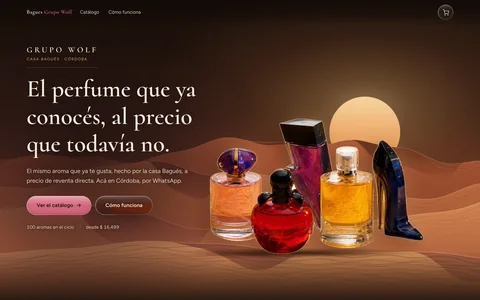
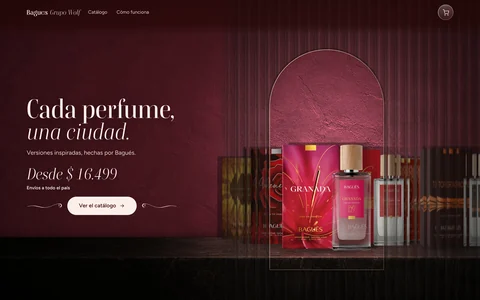
Bagués 3.0: problema, solución y resultado con capturas nuevas
- Texto nuevo: de CRM a tienda y panel, el catálogo mensual que llevaba 1–2 semanas y hoy se carga en menos de media hora desde los PDF
- Cinco puntos de solución, resultado destacado, stack al día y link al código (repo público)
- Capturas nuevas de la tienda renovada (desktop 2880×1800 y mobile 1170×2532) en todas sus variantes

Claude-Session: https://claude.ai/code/session_01BHvj3cjTpzQNewfVGVkyQp

diff --git a/index.html b/index.html
@@ -247,7 +247,7 @@
 
       <article class="case" id="p-bagues" style="--accent: var(--coral)" aria-labelledby="t-bagues">
         <div class="case__media">
-          <figure class="shot-d" style="--ph: #613928">
+          <figure class="shot-d" style="--ph: #431f23">
             <button class="shot-btn" type="button" data-open="bagues" data-shot-pref="d">
               <span class="sr-only" data-i18n="btn.zoom">Ampliar</span>
               <img src="img/p/bagues-d-1440.webp" srcset="img/p/bagues-d-960.webp 960w, img/p/bagues-d-1440.webp 1440w, img/p/bagues-d-2160.webp 2160w, img/p/bagues-d-2880.webp 2880w"
@@ -258,7 +258,7 @@
           </figure>
           <figure class="shot-m">
             <figcaption class="tag tag--coral shot-label" data-i18n="label.mobile">Mobile</figcaption>
-            <button class="phone shot-btn" type="button" data-open="bagues" data-shot-pref="m" style="--ph: #613928">
+            <button class="phone shot-btn" type="button" data-open="bagues" data-shot-pref="m" style="--ph: #431f23">
               <span class="sr-only" data-i18n="btn.zoom">Ampliar</span>
               <img src="img/p/bagues-m-780.webp" srcset="img/p/bagues-m-390.webp 390w, img/p/bagues-m-780.webp 780w, img/p/bagues-m-1170.webp 1170w"
                    sizes="(max-width: 700px) 92vw, (min-width: 1024px) 210px, 220px" width="1170" height="2532"
@@ -269,27 +269,30 @@
         <div class="case__info">
           <div class="case__head">
             <span class="case__num" aria-hidden="true">02</span>
-            <span class="tag tag--coral tag--lg"><span data-pf="bagues:badge">Tienda + panel propio</span> ✦</span>
+            <span class="tag tag--coral tag--lg"><span data-pf="bagues:badge">Versión 3.0</span> ✦</span>
           </div>
-          <ul class="tags" aria-label="Etiquetas" data-i18n-aria="aria.tags"><li class="tag tag--ink" data-pt="origin:familia">Negocio familiar</li><li class="tag tag--coral"><span class="dot" aria-hidden="true"></span>Live</li><li class="tag tag--peach" data-pt="type:tienda">Tienda</li><li class="tag tag--sage" data-pt="focus:conversion">Conversión</li><li class="tag tag--sage" data-pt="focus:db">Base de datos</li><li class="tag tag--sage" data-pt="focus:perf">Performance</li></ul>
-          <p class="label case__kicker" data-pf="bagues:kicker">Tienda por pedido · En producción</p>
+          <ul class="tags" aria-label="Etiquetas" data-i18n-aria="aria.tags"><li class="tag tag--ink" data-pt="origin:familia">Negocio familiar</li><li class="tag tag--coral"><span class="dot" aria-hidden="true"></span>Live</li><li class="tag tag--peach" data-pt="type:tienda">Tienda</li><li class="tag tag--sage" data-pt="focus:conversion">Conversión</li><li class="tag tag--sage" data-pt="focus:db">Base de datos</li><li class="tag tag--sage" data-pt="focus:perf">Performance</li><li class="tag tag--sage" data-pt="focus:diseno">Diseño visual</li></ul>
+          <p class="label case__kicker" data-pf="bagues:kicker">Nació como un CRM · Hoy tienda y panel en producción</p>
           <h3 class="case__title" id="t-bagues" data-pf="bagues:name">Bagués Grupo Wolf</h3>
-          <p class="case__context" data-pf="bagues:context">Grupo Wolf, el emprendimiento familiar, revende perfumes de la casa Bagués de persona a persona en Córdoba. Construí una tienda por pedido donde cada cliente explora el catálogo del ciclo, arma su pedido y lo confirma por WhatsApp.</p>
+          <p class="case__context" data-pf="bagues:context">Grupo Wolf, el emprendimiento familiar, vende perfumes Bagués por catálogo, y el catálogo cambia cada mes: más de cien aromas, precios que se mueven, perfumes que entran y salen. Actualizar todo a mano llevaba una o dos semanas. Lo resolví con una tienda y un panel propios: el ciclo nuevo se carga desde los PDF del proveedor y cada pedido llega listo por WhatsApp.</p>
           <div class="case__solved">
-            <p class="tag tag--ink"><span data-i18n="label.solved">Qué resolví</span>&nbsp;· 4</p>
+            <p class="tag tag--ink"><span data-i18n="label.solved">Qué resolví</span>&nbsp;· 5</p>
             <ol>
-              <li><span class="case__n" aria-hidden="true">01</span><span data-pf="bagues:solved:0">Catálogo de 100 aromas por ciclo, con familia olfativa y precio en cada ficha</span></li>
-              <li><span class="case__n" aria-hidden="true">02</span><span data-pf="bagues:solved:1">Carrito que arma el pedido y lo envía listo por WhatsApp</span></li>
-              <li><span class="case__n" aria-hidden="true">03</span><span data-pf="bagues:solved:2">Datos en Supabase y un panel propio para gestionar el catálogo</span></li>
-              <li><span class="case__n" aria-hidden="true">04</span><span data-pf="bagues:solved:3">Carga rápida: conexión anticipada a la base, imágenes responsive y fuentes diferidas</span></li>
+              <li><span class="case__n" aria-hidden="true">01</span><span data-pf="bagues:solved:0">El panel lee los PDF del ciclo nuevo, muestra qué cambia y lo aplica solo cuando confirmo, con respaldo</span></li>
+              <li><span class="case__n" aria-hidden="true">02</span><span data-pf="bagues:solved:1">Cada perfume con el nombre que la gente ya conoce, buscador que tolera errores y filtros por familia</span></li>
+              <li><span class="case__n" aria-hidden="true">03</span><span data-pf="bagues:solved:2">Ficha por perfume con notas, tamaños, precio y un link propio para compartir</span></li>
+              <li><span class="case__n" aria-hidden="true">04</span><span data-pf="bagues:solved:3">Pedido por WhatsApp sin pasarela de pago, a propósito: la venta se cierra hablando y los precios se verifican en la base</span></li>
+              <li><span class="case__n" aria-hidden="true">05</span><span data-pf="bagues:solved:4">Rediseño completo, “Cada perfume, una ciudad”, con las fotos de todo el catálogo en un mismo estudio</span></li>
             </ol>
           </div>
+          <p class="case__note" data-pf="bagues:note">Resultado: el ciclo nuevo se carga en menos de media hora (antes, una o dos semanas). Más de 90 de velocidad en el celular y pruebas en Safari, Chrome y Firefox antes de cada publicación.</p>
           <div class="case__stack">
             <span class="label" aria-hidden="true">Stack</span>
-            <ul class="stack" aria-label="Tecnologías" data-i18n-aria="aria.stack"><li>React</li><li>Vite</li><li>Supabase</li><li>WhatsApp</li><li>Vercel</li></ul>
+            <ul class="stack" aria-label="Tecnologías" data-i18n-aria="aria.stack"><li>React</li><li>Vite</li><li>React Router</li><li>Supabase</li><li>PDF.js</li><li>Vercel</li></ul>
           </div>
           <div class="case__actions">
             <a class="btn" href="https://baguesfraganciaswolf.vercel.app/" target="_blank" rel="noopener" data-i18n="btn.live">Ver en vivo ↗</a>
+            <a class="btn btn--ghost" href="https://github.com/Seba-fernandez/baguesfraganciaswolf" target="_blank" rel="noopener" data-i18n="btn.code">Código</a>
             <button class="btn btn--ghost" type="button" data-open="bagues" data-i18n="btn.shots">Ver capturas</button>
           </div>
         </div>
@@ -575,7 +578,7 @@
   </dialog>
 
   <!-- build:data:start -->
-  <script type="application/json" id="projectsData">{"types":{"tienda":{"es":"Tienda","en":"Store"},"sitio":{"es":"Sitio","en":"Website"},"landing":{"es":"Landing","en":"Landing"},"app":{"es":"App","en":"App"},"sistema":{"es":"Sistema","en":"System"}},"origins":{"familia":{"es":"Negocio familiar","en":"Family business"},"cliente":{"es":"Cliente real","en":"Real client"},"propio":{"es":"Producto propio","en":"Own product"},"estudio":{"es":"Estudio","en":"Study project"}},"focus":{"conversion":{"es":"Conversión","en":"Conversion"},"seo":{"es":"SEO","en":"SEO"},"perf":{"es":"Performance","en":"Performance"},"db":{"es":"Base de datos","en":"Database"},"ia":{"es":"IA aplicada","en":"Applied AI"},"js":{"es":"JS puro","en":"Vanilla JS"},"diseno":{"es":"Diseño visual","en":"Visual design"}},"projects":[{"id":"cespad","featured":true,"accent":"sage","placeholder":"#303530","name":{"es":"Grupo CESPAD","en":"Grupo CESPAD"},"type":"sitio","origin":"cliente","focus":["conversion","seo","js"],"badge":{"es":"Rediseño 2.0","en":"Redesign 2.0"},"kicker":{"es":"Cliente recurrente · Evolución de producto","en":"Returning client · Product evolution"},"context":{"es":"Grupo CESPAD no tenía presencia online propia y su oferta ya excedía el pádel. Convertí la primera landing en una experiencia orientada a descubrir sus deportes, entender cada servicio y llegar al canal de contacto adecuado.","en":"Grupo CESPAD had no online presence of its own and its offer had outgrown padel. I turned the first landing into an experience built to discover its sports, understand each service and reach the right contact channel."},"solved":{"es":["Arquitectura de contenido por deporte","CTAs directos a WhatsApp para contactos con intención alta","Formulario con validación de los datos esenciales","HTML semántico y datos estructurados para la búsqueda local"],"en":["Sport-based content architecture","Direct WhatsApp CTAs for high-intent contacts","A form that validates the essential data","Semantic HTML and structured data for local search"]},"stack":["HTML5","CSS3","JS ES6+","Schema.org","WhatsApp API","Vercel"],"live":"https://grupo-cespad-actualizacion.vercel.app/","code":"https://github.com/Seba-fernandez/Grupo-Cespad-actualizacion","alt":{"es":"el sitio Grupo CESPAD","en":"the Grupo CESPAD website"}},{"id":"bagues","featured":true,"accent":"coral","placeholder":"#613928","name":{"es":"Bagués Grupo Wolf","en":"Bagués Grupo Wolf"},"type":"tienda","origin":"familia","focus":["conversion","db","perf"],"badge":{"es":"Tienda + panel propio","en":"Store + own admin panel"},"kicker":{"es":"Tienda por pedido · En producción","en":"Order-based store · In production"},"context":{"es":"Grupo Wolf, el emprendimiento familiar, revende perfumes de la casa Bagués de persona a persona en Córdoba. Construí una tienda por pedido donde cada cliente explora el catálogo del ciclo, arma su pedido y lo confirma por WhatsApp.","en":"Grupo Wolf, our family business, resells Bagués perfumes person to person in Córdoba. I built an order-based store where each customer browses the current cycle's catalog, builds an order and confirms it over WhatsApp."},"solved":{"es":["Catálogo de 100 aromas por ciclo, con familia olfativa y precio en cada ficha","Carrito que arma el pedido y lo envía listo por WhatsApp","Datos en Supabase y un panel propio para gestionar el catálogo","Carga rápida: conexión anticipada a la base, imágenes responsive y fuentes diferidas"],"en":["A 100-scent catalog per cycle, with scent family and price on every card","A cart that builds the order and sends it ready over WhatsApp","Data in Supabase and a custom panel to manage the catalog","Fast loading: early database connection, responsive images and deferred fonts"]},"stack":["React","Vite","Supabase","WhatsApp","Vercel"],"live":"https://baguesfraganciaswolf.vercel.app/","code":"","alt":{"es":"la tienda Bagués Grupo Wolf","en":"the Bagués Grupo Wolf store"}},{"id":"oratoria","featured":true,"accent":"peach","placeholder":"#151515","name":{"es":"Checklist de Oratoria","en":"Speaking Checklist"},"type":"app","origin":"propio","focus":["ia"],"badge":{"es":"App propia","en":"Own app"},"kicker":{"es":"Producto personal · React + IA","en":"Personal product · React + AI"},"context":{"es":"Nació para resolver un problema propio: registrar práctica y obtener devoluciones sin repetir diagnósticos manuales.","en":"Built to solve a problem of my own: tracking practice and getting feedback without repeating manual diagnostics."},"solved":{"es":["Interfaz de checklist para registrar cada práctica","Persistencia local entre sesiones","Asistencia de IA para acelerar el feedback"],"en":["A checklist interface to log every practice","Local persistence between sessions","AI assistance to speed up feedback"]},"stack":["React","Vite","LocalStorage","Claude API","Vercel"],"live":"https://checklist-para-oratoria.vercel.app/","code":"https://github.com/Seba-fernandez/ChecklistOratoria","alt":{"es":"la app Checklist de Oratoria","en":"the Speaking Checklist app"}},{"id":"greenset","featured":false,"accent":"peach","placeholder":"#45554c","name":{"es":"Greenset Court","en":"Greenset Court"},"type":"landing","origin":"cliente","focus":["conversion","js"],"badge":{"es":"Versión 1.0","en":"Version 1.0"},"kicker":{"es":"Primera entrega · Punto de partida","en":"First delivery · Starting point"},"context":{"es":"Primera presencia digital para una propuesta de pádel. El objetivo era simple y concreto, sin sumar complejidad técnica innecesaria.","en":"The first digital presence for a padel offering. The goal was simple and concrete, without adding unnecessary technical complexity."},"solved":{"es":["Explicar el servicio de un vistazo","Verse confiable en el celular","Abrir un camino de contacto claro por WhatsApp"],"en":["Explain the service at a glance","Look trustworthy on a phone","Open a clear contact path over WhatsApp"]},"note":{"es":"La expansión del negocio dejó chica esta primera versión. Ese aprendizaje derivó en Grupo CESPAD.","en":"The business expansion outgrew this first version. That learning led to Grupo CESPAD."},"stack":["HTML5","CSS3","JS ES6+","WhatsApp API","Vercel"],"live":"https://greenset-landing.vercel.app/","code":"https://github.com/Seba-fernandez/Greenset-Landing","alt":{"es":"el sitio Greenset Court","en":"the Greenset Court website"}},{"id":"cafe","featured":false,"accent":"peach","placeholder":"#5e5b5a","name":{"es":"Blog de Café","en":"Coffee Blog"},"type":"sitio","origin":"estudio","focus":["js"],"kicker":{"es":"Proyecto de estudio · Multipágina","en":"Study project · Multi-page"},"context":{"es":"Proyecto de estudio para practicar la estructura de un sitio multipágina en HTML: blog, listado de cursos y contacto con validación de formulario.","en":"A study project to practice the structure of a multi-page HTML site: blog, course listing and a contact form with validation."},"solved":{"es":["Navegación entre 5 páginas con una estructura compartida","Listado de cursos y entradas del blog","Validación de formulario en JS puro"],"en":["Navigation across 5 pages with a shared structure","Course listing and blog posts","Form validation in vanilla JS"]},"stack":["HTML5","CSS3","JS ES6+","DOM API","Vercel"],"live":"https://blog-cafe-beige.vercel.app/","code":"https://github.com/Seba-fernandez/BlogCafe","alt":{"es":"el Blog de Café","en":"the Coffee Blog"}},{"id":"festival","featured":false,"accent":"coral","placeholder":"#755f90","name":{"es":"Festival de Música","en":"Music Festival"},"type":"landing","origin":"estudio","focus":["perf","diseno"],"kicker":{"es":"Proyecto de estudio · Imágenes y diseño","en":"Study project · Images and design"},"context":{"es":"Proyecto de estudio enfocado en compresión de imágenes y diseño: una landing de alto impacto para un festival EDM, con video de fondo, lineup y tickets.","en":"A study project focused on image compression and design: a high-impact landing for an EDM festival, with a background video, lineup and tickets."},"solved":{"es":["Imágenes en WebP con carga diferida","Video de fondo sin bloquear la carga","Lineup de 2 días y 2 escenarios en grilla","SASS organizado en partials"],"en":["WebP images with lazy loading","A background video that doesn't block loading","A 2-day, 2-stage lineup grid","SASS organized in partials"]},"stack":["HTML5","SASS/SCSS","WebP","Lazy loading","Vercel"],"live":"https://festivalde-musica.vercel.app/","code":"https://github.com/Seba-fernandez/FestivaldeMusica","alt":{"es":"el sitio Festival de Música","en":"the Music Festival website"}}]}</script>
+  <script type="application/json" id="projectsData">{"types":{"tienda":{"es":"Tienda","en":"Store"},"sitio":{"es":"Sitio","en":"Website"},"landing":{"es":"Landing","en":"Landing"},"app":{"es":"App","en":"App"},"sistema":{"es":"Sistema","en":"System"}},"origins":{"familia":{"es":"Negocio familiar","en":"Family business"},"cliente":{"es":"Cliente real","en":"Real client"},"propio":{"es":"Producto propio","en":"Own product"},"estudio":{"es":"Estudio","en":"Study project"}},"focus":{"conversion":{"es":"Conversión","en":"Conversion"},"seo":{"es":"SEO","en":"SEO"},"perf":{"es":"Performance","en":"Performance"},"db":{"es":"Base de datos","en":"Database"},"ia":{"es":"IA aplicada","en":"Applied AI"},"js":{"es":"JS puro","en":"Vanilla JS"},"diseno":{"es":"Diseño visual","en":"Visual design"}},"projects":[{"id":"cespad","featured":true,"accent":"sage","placeholder":"#303530","name":{"es":"Grupo CESPAD","en":"Grupo CESPAD"},"type":"sitio","origin":"cliente","focus":["conversion","seo","js"],"badge":{"es":"Rediseño 2.0","en":"Redesign 2.0"},"kicker":{"es":"Cliente recurrente · Evolución de producto","en":"Returning client · Product evolution"},"context":{"es":"Grupo CESPAD no tenía presencia online propia y su oferta ya excedía el pádel. Convertí la primera landing en una experiencia orientada a descubrir sus deportes, entender cada servicio y llegar al canal de contacto adecuado.","en":"Grupo CESPAD had no online presence of its own and its offer had outgrown padel. I turned the first landing into an experience built to discover its sports, understand each service and reach the right contact channel."},"solved":{"es":["Arquitectura de contenido por deporte","CTAs directos a WhatsApp para contactos con intención alta","Formulario con validación de los datos esenciales","HTML semántico y datos estructurados para la búsqueda local"],"en":["Sport-based content architecture","Direct WhatsApp CTAs for high-intent contacts","A form that validates the essential data","Semantic HTML and structured data for local search"]},"stack":["HTML5","CSS3","JS ES6+","Schema.org","WhatsApp API","Vercel"],"live":"https://grupo-cespad-actualizacion.vercel.app/","code":"https://github.com/Seba-fernandez/Grupo-Cespad-actualizacion","alt":{"es":"el sitio Grupo CESPAD","en":"the Grupo CESPAD website"}},{"id":"bagues","featured":true,"accent":"coral","placeholder":"#431f23","name":{"es":"Bagués Grupo Wolf","en":"Bagués Grupo Wolf"},"type":"tienda","origin":"familia","focus":["conversion","db","perf","diseno"],"badge":{"es":"Versión 3.0","en":"Version 3.0"},"kicker":{"es":"Nació como un CRM · Hoy tienda y panel en producción","en":"Started as a CRM · Now a store and admin panel in production"},"context":{"es":"Grupo Wolf, el emprendimiento familiar, vende perfumes Bagués por catálogo, y el catálogo cambia cada mes: más de cien aromas, precios que se mueven, perfumes que entran y salen. Actualizar todo a mano llevaba una o dos semanas. Lo resolví con una tienda y un panel propios: el ciclo nuevo se carga desde los PDF del proveedor y cada pedido llega listo por WhatsApp.","en":"Grupo Wolf, our family business, sells Bagués perfumes from a catalog that changes every month: over a hundred scents, shifting prices, perfumes coming and going. Updating everything by hand took one or two weeks. I solved it with a custom store and admin panel: the new cycle loads from the supplier's PDFs and every order arrives ready over WhatsApp."},"solved":{"es":["El panel lee los PDF del ciclo nuevo, muestra qué cambia y lo aplica solo cuando confirmo, con respaldo","Cada perfume con el nombre que la gente ya conoce, buscador que tolera errores y filtros por familia","Ficha por perfume con notas, tamaños, precio y un link propio para compartir","Pedido por WhatsApp sin pasarela de pago, a propósito: la venta se cierra hablando y los precios se verifican en la base","Rediseño completo, “Cada perfume, una ciudad”, con las fotos de todo el catálogo en un mismo estudio"],"en":["The panel reads the new cycle's PDFs, shows what changes and applies it only when I confirm, with a backup","Every perfume under the name people already know, a search that forgives typos and filters by scent family","A page per perfume with notes, sizes, price and its own shareable link","Orders over WhatsApp with no payment gateway, on purpose: the sale closes in conversation and prices are checked in the database","A full redesign, “Every perfume, a city”, with the whole catalog photographed in one consistent studio look"]},"note":{"es":"Resultado: el ciclo nuevo se carga en menos de media hora (antes, una o dos semanas). Más de 90 de velocidad en el celular y pruebas en Safari, Chrome y Firefox antes de cada publicación.","en":"Result: a new cycle loads in under half an hour (it used to take one or two weeks). Over 90 on mobile speed, and tested in Safari, Chrome and Firefox before every release."},"stack":["React","Vite","React Router","Supabase","PDF.js","Vercel"],"live":"https://baguesfraganciaswolf.vercel.app/","code":"https://github.com/Seba-fernandez/baguesfraganciaswolf","alt":{"es":"la tienda Bagués Grupo Wolf","en":"the Bagués Grupo Wolf store"}},{"id":"oratoria","featured":true,"accent":"peach","placeholder":"#151515","name":{"es":"Checklist de Oratoria","en":"Speaking Checklist"},"type":"app","origin":"propio","focus":["ia"],"badge":{"es":"App propia","en":"Own app"},"kicker":{"es":"Producto personal · React + IA","en":"Personal product · React + AI"},"context":{"es":"Nació para resolver un problema propio: registrar práctica y obtener devoluciones sin repetir diagnósticos manuales.","en":"Built to solve a problem of my own: tracking practice and getting feedback without repeating manual diagnostics."},"solved":{"es":["Interfaz de checklist para registrar cada práctica","Persistencia local entre sesiones","Asistencia de IA para acelerar el feedback"],"en":["A checklist interface to log every practice","Local persistence between sessions","AI assistance to speed up feedback"]},"stack":["React","Vite","LocalStorage","Claude API","Vercel"],"live":"https://checklist-para-oratoria.vercel.app/","code":"https://github.com/Seba-fernandez/ChecklistOratoria","alt":{"es":"la app Checklist de Oratoria","en":"the Speaking Checklist app"}},{"id":"greenset","featured":false,"accent":"peach","placeholder":"#45554c","name":{"es":"Greenset Court","en":"Greenset Court"},"type":"landing","origin":"cliente","focus":["conversion","js"],"badge":{"es":"Versión 1.0","en":"Version 1.0"},"kicker":{"es":"Primera entrega · Punto de partida","en":"First delivery · Starting point"},"context":{"es":"Primera presencia digital para una propuesta de pádel. El objetivo era simple y concreto, sin sumar complejidad técnica innecesaria.","en":"The first digital presence for a padel offering. The goal was simple and concrete, without adding unnecessary technical complexity."},"solved":{"es":["Explicar el servicio de un vistazo","Verse confiable en el celular","Abrir un camino de contacto claro por WhatsApp"],"en":["Explain the service at a glance","Look trustworthy on a phone","Open a clear contact path over WhatsApp"]},"note":{"es":"La expansión del negocio dejó chica esta primera versión. Ese aprendizaje derivó en Grupo CESPAD.","en":"The business expansion outgrew this first version. That learning led to Grupo CESPAD."},"stack":["HTML5","CSS3","JS ES6+","WhatsApp API","Vercel"],"live":"https://greenset-landing.vercel.app/","code":"https://github.com/Seba-fernandez/Greenset-Landing","alt":{"es":"el sitio Greenset Court","en":"the Greenset Court website"}},{"id":"cafe","featured":false,"accent":"peach","placeholder":"#5e5b5a","name":{"es":"Blog de Café","en":"Coffee Blog"},"type":"sitio","origin":"estudio","focus":["js"],"kicker":{"es":"Proyecto de estudio · Multipágina","en":"Study project · Multi-page"},"context":{"es":"Proyecto de estudio para practicar la estructura de un sitio multipágina en HTML: blog, listado de cursos y contacto con validación de formulario.","en":"A study project to practice the structure of a multi-page HTML site: blog, course listing and a contact form with validation."},"solved":{"es":["Navegación entre 5 páginas con una estructura compartida","Listado de cursos y entradas del blog","Validación de formulario en JS puro"],"en":["Navigation across 5 pages with a shared structure","Course listing and blog posts","Form validation in vanilla JS"]},"stack":["HTML5","CSS3","JS ES6+","DOM API","Vercel"],"live":"https://blog-cafe-beige.vercel.app/","code":"https://github.com/Seba-fernandez/BlogCafe","alt":{"es":"el Blog de Café","en":"the Coffee Blog"}},{"id":"festival","featured":false,"accent":"coral","placeholder":"#755f90","name":{"es":"Festival de Música","en":"Music Festival"},"type":"landing","origin":"estudio","focus":["perf","diseno"],"kicker":{"es":"Proyecto de estudio · Imágenes y diseño","en":"Study project · Images and design"},"context":{"es":"Proyecto de estudio enfocado en compresión de imágenes y diseño: una landing de alto impacto para un festival EDM, con video de fondo, lineup y tickets.","en":"A study project focused on image compression and design: a high-impact landing for an EDM festival, with a background video, lineup and tickets."},"solved":{"es":["Imágenes en WebP con carga diferida","Video de fondo sin bloquear la carga","Lineup de 2 días y 2 escenarios en grilla","SASS organizado en partials"],"en":["WebP images with lazy loading","A background video that doesn't block loading","A 2-day, 2-stage lineup grid","SASS organized in partials"]},"stack":["HTML5","SASS/SCSS","WebP","Lazy loading","Vercel"],"live":"https://festivalde-musica.vercel.app/","code":"https://github.com/Seba-fernandez/FestivaldeMusica","alt":{"es":"el sitio Festival de Música","en":"the Music Festival website"}}]}</script>
   <!-- build:data:end -->
 
   <!-- GSAP + ScrollTrigger los carga motion.js cuando la página ya está lista (no traban la entrada) -->
